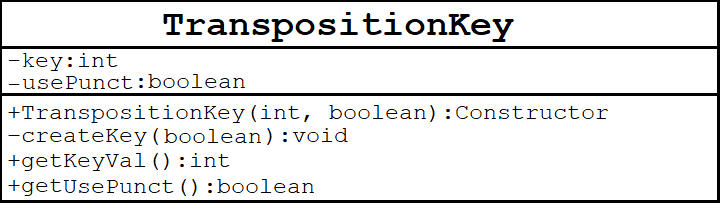
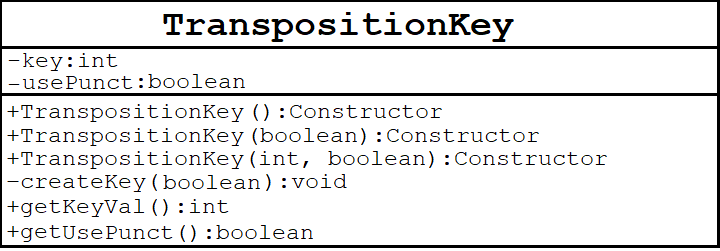
Completed code for TranspositionKey Java file.

Changed region(s): [[0.0, 0.0571, 1.0, 1.0], [0.0, 0.0, 1.0, 0.0286]]

diff --git a/Encryptor Decryptor File Encryption/src/Encryptor Decryptor File Ecryption/CipherKeys/TranspositionKey.java b/Encryptor Decryptor File Encryption/src/Encryptor Decryptor File Ecryption/CipherKeys/TranspositionKey.java
@@ -3,11 +3,14 @@
  */
 package CipherKeys;
 
+import java.security.SecureRandom;
+
 /**
  * @author Amol Soneji
  *
  */
-public class TranspositionKey {
+public class TranspositionKey 
+{
 
 	private int key;
 	private boolean usePunct;
@@ -15,8 +18,41 @@ public class TranspositionKey {
 	/**
 	 * 
 	 */
-	public TranspositionKey() {
-		// TODO Auto-generated constructor stub
+	public TranspositionKey() 
+	{
+		usePunct = true; //Default not user set value for usePunct will be true.  
+		createKey();
 	}
-
+	
+	public TranspositionKey(boolean usePunct)
+	{
+		this.usePunct = usePunct;
+		createKey();
+	}
+	
+	public TranspositionKey(int key, boolean usePunct)
+	{
+		this.key = key;
+		this.usePunct = usePunct;
+	}
+	
+	private void createKey()//Padding will be used in another part of the program in case that L is not a multiple of the key.  
+	{
+		SecureRandom random = new SecureRandom();
+		int val = random.nextInt(128);
+		while(val < 10) {//10 or larger is better.  
+			val = random.nextInt(128);
+		}
+		key = val;
+	}
+	
+	public int getKey()
+	{
+		return key;
+	}
+	
+	public boolean getUsePunct()
+	{
+		return usePunct;
+	}
 }

diff --git a/Encryptor Decryptor File Encryption/src/Encryptor Decryptor File Ecryption/CipherKeys/PolyalphabeticKey.java b/Encryptor Decryptor File Encryption/src/Encryptor Decryptor File Ecryption/CipherKeys/PolyalphabeticKey.java
@@ -3,8 +3,9 @@ package CipherKeys;
 import java.security.SecureRandom;
 import java.util.ArrayList; //Array list for storing char array, since when using full UTF-16, there are characters that may use more than one char for once character.  
 
-/*
- * 
+/**
+ * @author Amol Soneji
+ *
  */
 
 public class PolyalphabeticKey 
